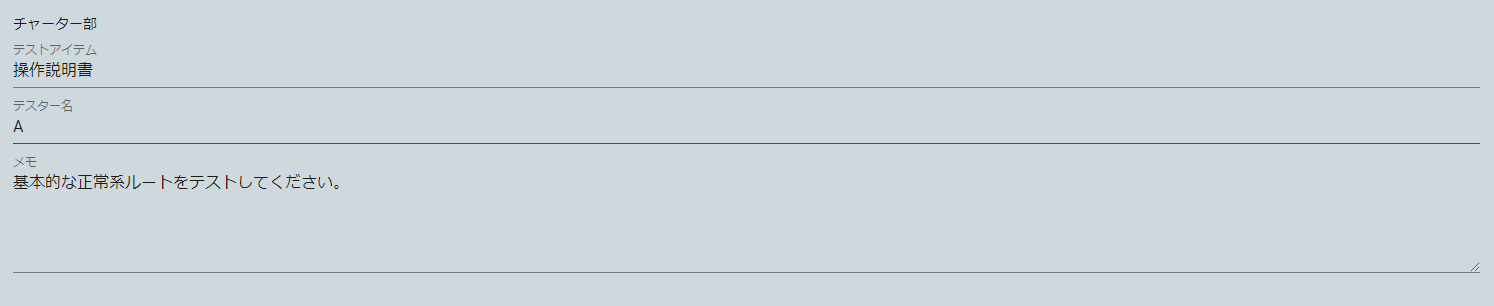
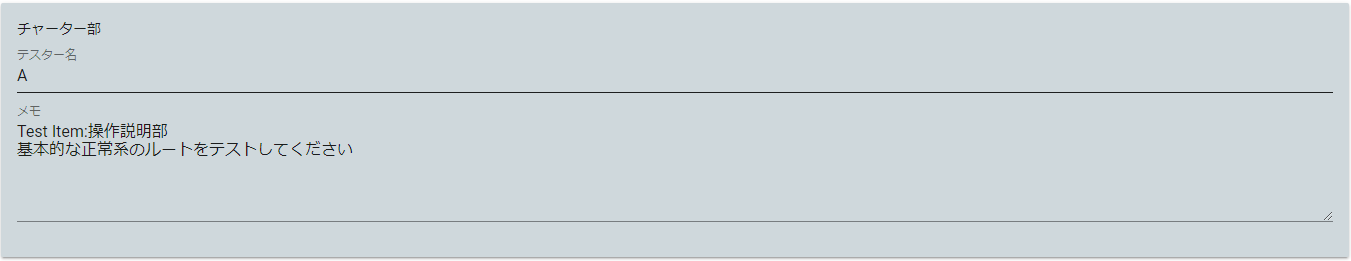
modify docs

Changed region(s): [[0.0, 0.0, 1.0, 1.0]]

diff --git a/docs/manual/management/manual-management.md b/docs/manual/management/manual-management.md
@@ -328,12 +328,10 @@ OK ボタンを押下し、データがエクスポートされます。
 
 テスト実施者への指示として、以下項目を記載できます。
 
-- テストアイテム
-  - テスト時にテスト実施者が使用する資材(操作説明書等)を記載してください。
 - テスター名
   - テスト実施者の名前を記載してください。
 - メモ
-  - セッションを行う際に特に注意すべき点がある場合等、テスト実施者へのより細かい指示を記載してください。
+  - テスト時にテスト実施者が使用する資材(操作説明書等)やセッションを行う際に特に注意すべき点がある場合等、テスト実施者へのより細かい指示を記載してください。
 
 ### レポート部
 
